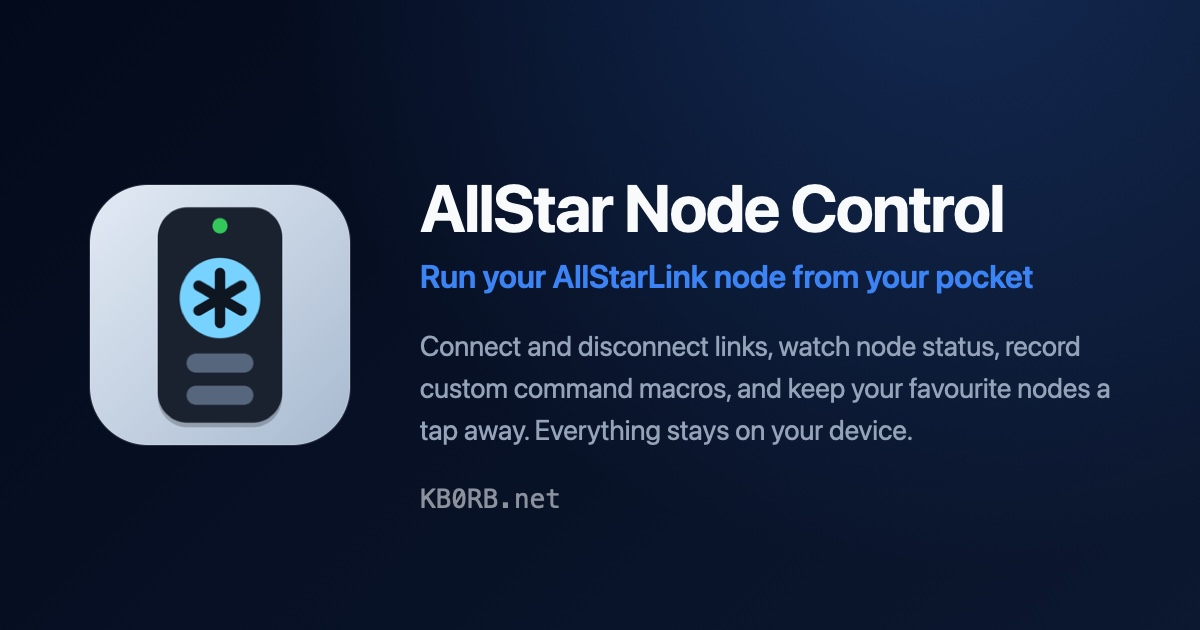
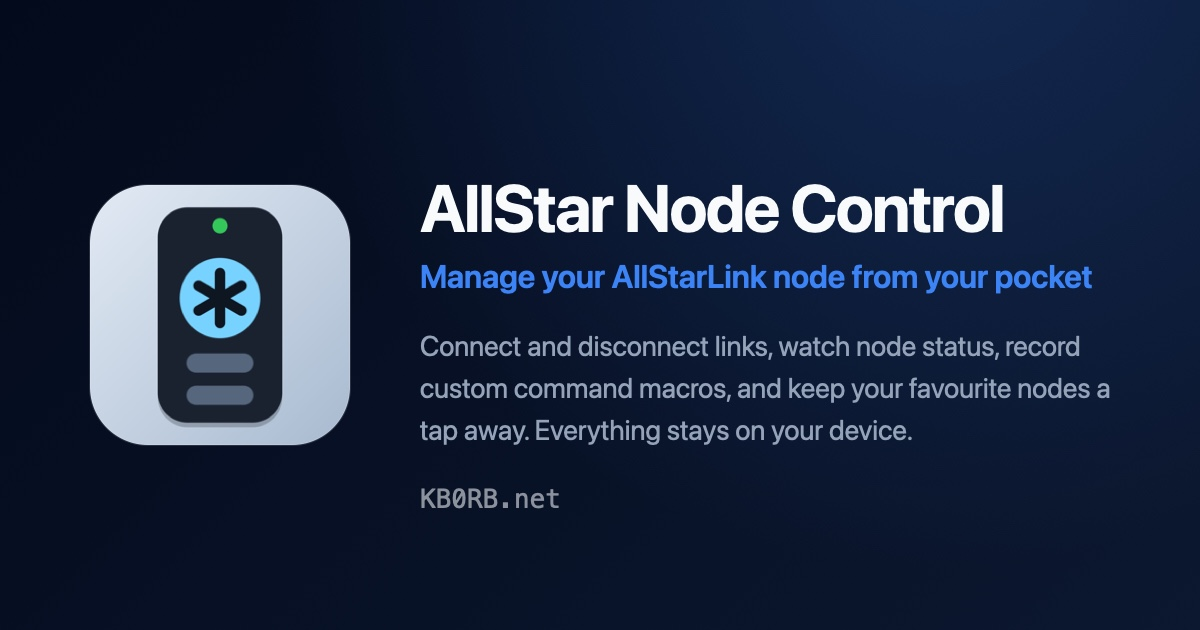
minor tweak to social card wording

Changed region(s): [[0.3392, 0.4222, 0.925, 0.4825]]

diff --git a/README.md b/README.md
@@ -82,7 +82,7 @@ background beside the name, tagline and a short blurb, at the 1200×630 that lin
 previews expect. It needs nothing but macOS (`qlmanage` and `sips`):
 
 ```bash
-scripts/make-og-card.py --icon assets/img/node-control-icon.png --title "AllStar Node Control" --tagline "Run your AllStarLink node from your pocket" --line "Connect and disconnect links, watch node status, record" --line "custom command macros, and keep your favourite nodes a" --line "tap away. Everything stays on your device." --out assets/img/og-allstar-node-control.jpg
+scripts/make-og-card.py --icon assets/img/node-control-icon.png --title "AllStar Node Control" --tagline "Manage your AllStarLink node from your pocket" --line "Connect and disconnect links, watch node status, record" --line "custom command macros, and keep your favourite nodes a" --line "tap away. Everything stays on your device." --out assets/img/og-allstar-node-control.jpg
 ```
 
 SVG has no automatic wrapping, so each `--line` is placed literally — break them yourself
